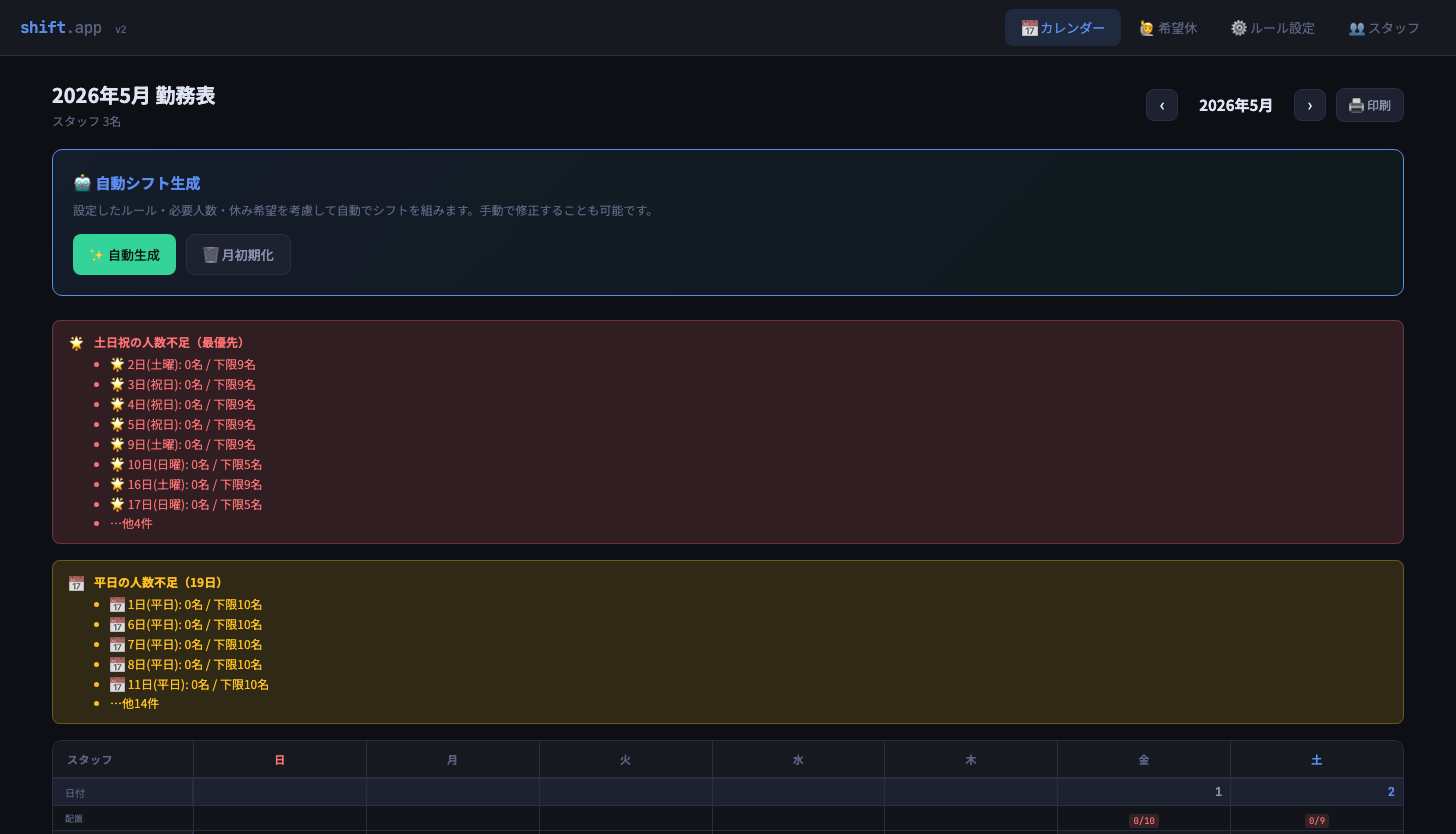
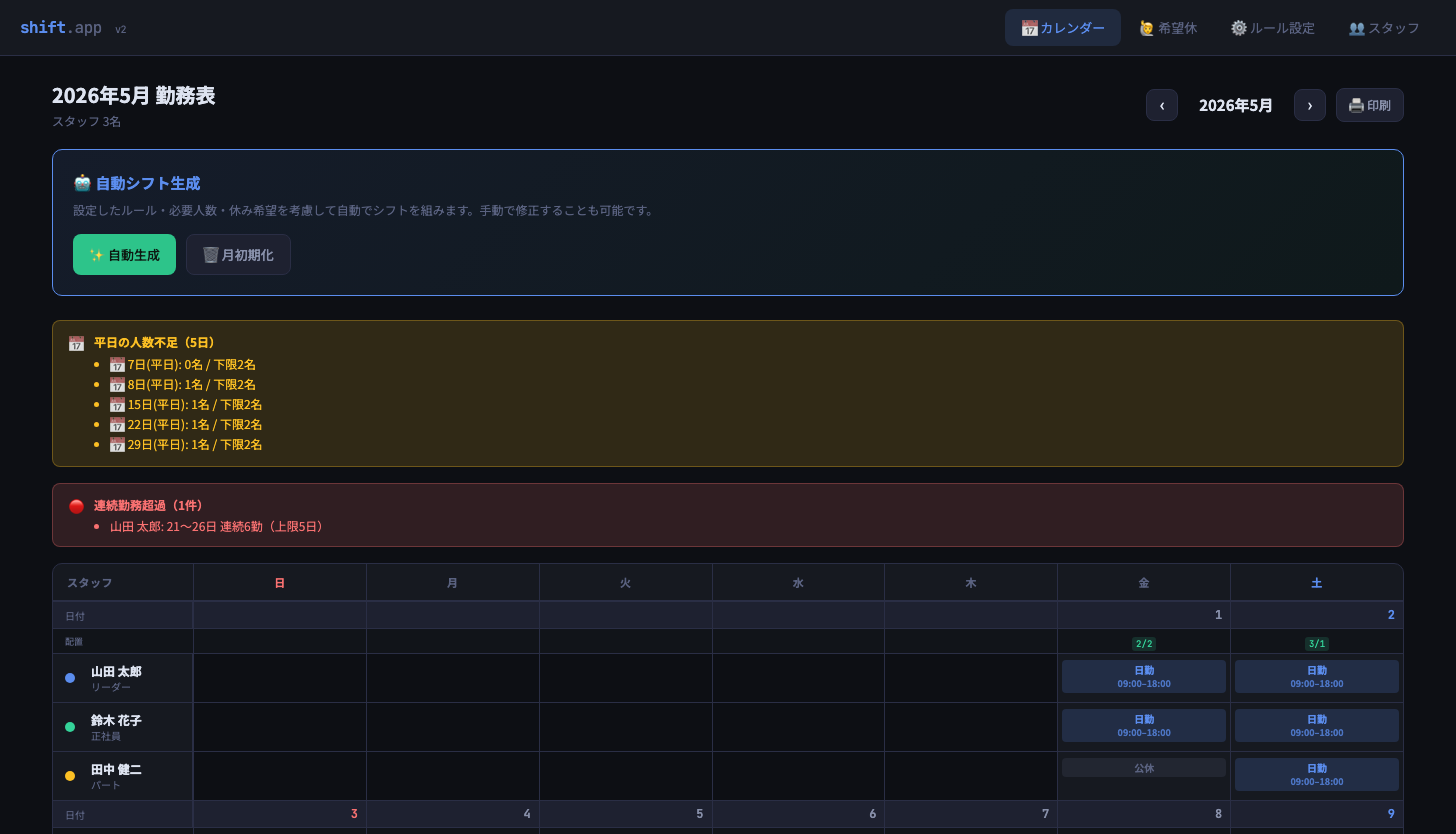
シフトスケジューラースクショ更新・全体フォントサイズ拡大
- シフトスケジューラーのスクショをランドスケープ表示（1456x834）に刷新
- 本文フォント 15px→16px、見出し・説明文・リンク等も全体的に拡大
- 読みやすさ向上のためline-heightも微調整

diff --git a/index.html b/index.html
@@ -22,8 +22,8 @@
     font-family:'Noto Sans JP',sans-serif;
     background:var(--bg);
     color:var(--ink);
-    font-size:15px;
-    line-height:1.8;
+    font-size:16px;
+    line-height:1.85;
   }
 
   /* ── NAV ── */
@@ -47,7 +47,7 @@
   }
   .nav-links{display:flex;gap:28px;}
   .nav-links a{
-    font-size:13px;color:var(--muted);
+    font-size:14px;color:var(--muted);
     text-decoration:none;letter-spacing:.05em;
     transition:color .2s;
   }
@@ -83,7 +83,7 @@
   }
   .hero-name span{color:var(--teal);}
   .hero-lead{
-    font-size:14px;color:var(--muted);
+    font-size:16px;color:var(--muted);
     line-height:1.9;
     margin-bottom:28px;
   }
@@ -174,10 +174,10 @@
     color:var(--teal);
   }
   .stat-unit{
-    font-size:13px;color:var(--muted);
+    font-size:14px;color:var(--muted);
   }
   .stat-label{
-    font-size:12px;color:var(--subtle);
+    font-size:13px;color:var(--subtle);
     margin-left:2px;
   }
   .stats-divider{
@@ -196,14 +196,14 @@
   section{max-width:960px;margin:0 auto;padding:60px 40px;}
   .section-label{
     font-family:'DM Mono',monospace;
-    font-size:11px;letter-spacing:.18em;
+    font-size:12px;letter-spacing:.18em;
     text-transform:uppercase;color:var(--subtle);
     margin-bottom:32px;
   }
 
   /* ── ABOUT ── */
   .about-intro{
-    font-size:15px;color:var(--muted);
+    font-size:16px;color:var(--muted);
     line-height:1.9;margin-bottom:24px;
     max-width:640px;
   }
@@ -216,10 +216,10 @@
   }
   .about-card h3{
     font-family:'Noto Serif JP',serif;
-    font-size:15px;font-weight:600;
+    font-size:16px;font-weight:600;
     margin-bottom:10px;
   }
-  .about-card p{font-size:14px;color:var(--muted);line-height:1.8;}
+  .about-card p{font-size:15px;color:var(--muted);line-height:1.85;}
   .about-card.full{grid-column:1/-1;}
 
   /* ── SERVICES ── */
@@ -235,16 +235,16 @@
   }
   .service-head h3{
     font-family:'Noto Serif JP',serif;
-    font-size:17px;font-weight:600;
+    font-size:19px;font-weight:600;
   }
   .service-badge{
     font-family:'DM Mono',monospace;
-    font-size:10px;letter-spacing:.1em;
+    font-size:11px;letter-spacing:.1em;
     background:var(--teal-light);color:var(--teal);
     border:1px solid #9FE1CB;
     border-radius:4px;padding:3px 10px;white-space:nowrap;
   }
-  .service-desc{font-size:14px;color:var(--muted);max-width:560px;}
+  .service-desc{font-size:15px;color:var(--muted);max-width:560px;}
 
   /* ── STRENGTHS ── */
   .strength-list{display:grid;grid-template-columns:1fr 1fr;gap:16px;}
@@ -254,8 +254,8 @@
     border-radius:10px;padding:20px;
     border-left:3px solid var(--teal-mid);
   }
-  .strength h4{font-size:14px;font-weight:500;margin-bottom:6px;}
-  .strength p{font-size:13px;color:var(--muted);line-height:1.7;}
+  .strength h4{font-size:15px;font-weight:500;margin-bottom:6px;}
+  .strength p{font-size:14px;color:var(--muted);line-height:1.8;}
 
   /* ── PORTFOLIO ── */
   .portfolio-grid{
@@ -286,19 +286,19 @@
   .portfolio-body{padding:20px;}
   .portfolio-type{
     font-family:'DM Mono',monospace;
-    font-size:10px;letter-spacing:.12em;
+    font-size:11px;letter-spacing:.12em;
     color:var(--teal);
     text-transform:uppercase;
     margin-bottom:6px;
   }
   .portfolio-title{
     font-family:'Noto Serif JP',serif;
-    font-size:15px;font-weight:600;
+    font-size:16px;font-weight:600;
     margin-bottom:8px;
     line-height:1.4;
   }
   .portfolio-desc{
-    font-size:13px;color:var(--muted);
+    font-size:14px;color:var(--muted);
     line-height:1.7;
     margin-bottom:14px;
   }
@@ -309,7 +309,7 @@
   }
   .portfolio-link{
     font-family:'DM Mono',monospace;
-    font-size:11px;color:var(--teal);
+    font-size:12px;color:var(--teal);
     text-decoration:none;letter-spacing:.06em;
     white-space:nowrap;
   }
@@ -317,7 +317,7 @@
   .stack-row{display:flex;flex-wrap:wrap;gap:6px;}
   .stack{
     font-family:'DM Mono',monospace;
-    font-size:10px;
+    font-size:11px;
     background:var(--bg);
     border:1px solid var(--line);
     border-radius:4px;
@@ -334,13 +334,13 @@
   }
   .contact-block h2{
     font-family:'Noto Serif JP',serif;
-    font-size:22px;font-weight:600;
+    font-size:24px;font-weight:600;
     margin-bottom:12px;
   }
-  .contact-block p{font-size:14px;color:var(--muted);margin-bottom:28px;line-height:1.9;}
+  .contact-block p{font-size:15px;color:var(--muted);margin-bottom:28px;line-height:1.9;}
   .contact-links{display:flex;justify-content:center;gap:16px;flex-wrap:wrap;}
   .contact-btn{
-    font-size:13px;
+    font-size:14px;
     border:1px solid var(--line);
     border-radius:6px;
     padding:10px 24px;
@@ -361,7 +361,7 @@
     padding:24px 40px;
     text-align:center;
     font-family:'DM Mono',monospace;
-    font-size:11px;letter-spacing:.08em;
+    font-size:12px;letter-spacing:.08em;
     color:var(--subtle);
   }
 
